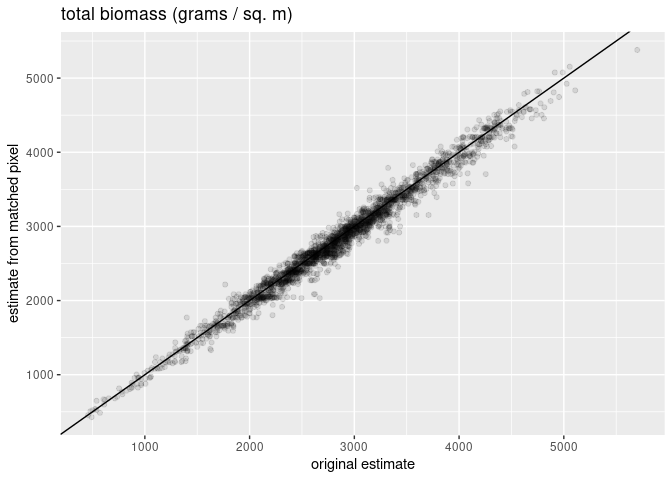
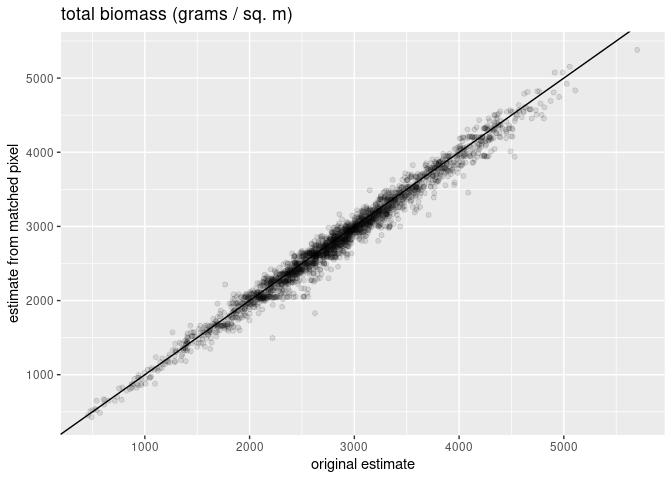
try fixing scrollable code chunks with css

diff --git a/README.md b/README.md
@@ -2,6 +2,15 @@
 <!-- README.md is generated from README.Rmd. Please edit that file -->
 
 <style type="text/css">
+pre {
+  max-height: 300px;
+  overflow-y: auto;
+}
+
+pre[class] {
+  max-height: 200px;
+}
+
 .scroll-200 {
   max-height: 200px;
   overflow-y: auto;
@@ -329,14 +338,14 @@ and some diagnostic tables (`backcasted$comp_stats`,
 species (`common`) and diameter per pixel.
 
 ``` scroll-200
-#> Rows: 595,709
+#> Rows: 598,293
 #> Columns: 6
-#> $ pix_ctr_wkt <chr> "POINT(-1768035 -455625)", "POINT(-1768035 -455625)", "PO…
-#> $ map_code    <chr> "10_11_1889", "10_11_1889", "10_11_1889", "10_11_1889", "…
+#> $ pix_ctr_wkt <chr> "POINT(-1768035 -455625)", "POINT(-1771275 -455355)", "PO…
+#> $ map_code    <chr> "10_11_1889", "10_11_2003", "10_11_1889", "10_11_2003", "…
 #> $ pix_area_ha <dbl> 0.81, 0.81, 0.81, 0.81, 0.81, 0.81, 0.81, 0.81, 0.81, 0.8…
-#> $ common      <chr> "California black oak", "ponderosa pine", "California bla…
-#> $ diameter    <int> 2, 5, 5, 6, 7, 8, 9, 10, 11, 12, 13, 14, 15, 16, 24, 26, …
-#> $ nTrees      <dbl> 57.891, 5.572, 14.138, 10.092, 11.434, 1.531, 13.562, 10.…
+#> $ common      <chr> "California black oak", "California black oak", "ponderos…
+#> $ diameter    <int> 2, 2, 5, 5, 5, 5, 6, 6, 7, 7, 8, 8, 9, 9, 10, 10, 11, 11,…
+#> $ nTrees      <dbl> 57.891, 57.891, 5.572, 5.572, 14.138, 14.138, 10.092, 10.…
 ```
 
 ### Diagnostics
@@ -351,9 +360,9 @@ share of biomass for each pixel.
 
 <img src="man/figures/README-total_biomass_plot-1.png" width="80%" />
 
-|            attribute             | original mean | matched mean | RMSE  | RMSE % |
-| :------------------------------: | :-----------: | :----------: | :---: | :----: |
-| aboveground\_biomass\_g\_per\_m2 |     2852      |     2817     | 115.8 |   4    |
+|            attribute             | original mean | matched mean | RMSE | RMSE % |
+| :------------------------------: | :-----------: | :----------: | :--: | :----: |
+| aboveground\_biomass\_g\_per\_m2 |     2852      |     2811     | 120  |   4    |
 
 #### Biomass by species
 
@@ -361,39 +370,39 @@ share of biomass for each pixel.
 
 |     species     | original mean | matched mean |  RMSE  | RMSE % |
 | :-------------: | :-----------: | :----------: | :----: | :----: |
-|    PseuMenz     |     1138      |     1154     | 97.36  |   9    |
-|    AbieConc     |      524      |    516.7     |  98.6  |   19   |
-|    CaloDecu     |     453.4     |    418.9     |  117   |   26   |
-|    PinuPond     |     362.5     |    369.3     | 91.74  |   25   |
-|    PinuLamb     |     152.8     |    156.8     | 73.84  |   48   |
-|    QuerKell     |     98.18     |    92.55     | 68.59  |   70   |
-|    QuerChry     |     39.03     |    31.67     | 56.45  |  145   |
-|    AcerMacr     |     17.25     |    14.96     | 42.41  |  246   |
-|    QuerWisl     |     8.485     |    7.701     |  27.4  |  323   |
-|    AbieMagn     |     7.563     |     5.31     | 28.57  |  378   |
-|    ArbuMenz     |     7.465     |    6.453     | 27.84  |  373   |
-|    PinuJeff     |     6.857     |    6.646     | 27.45  |  400   |
-|    LithDens     |     6.416     |    7.764     | 29.23  |  456   |
-|    AlnuRhom     |     5.756     |    4.851     | 22.65  |  394   |
-|  NOFX\_R\_SEED  |     5.039     |    4.617     | 7.912  |  157   |
-|    TsugMert     |     4.166     |    4.293     | 24.72  |  593   |
-|    PinuSabi     |     3.656     |    3.319     |  20.1  |  550   |
-|    CornNutt     |     2.504     |    2.248     | 6.248  |  249   |
-|   FX\_R\_SEED   |     1.543     |    1.571     |  3.43  |  222   |
-|    PinuMono     |     1.493     |    0.548     | 18.49  |  1239  |
-|    QuerDoug     |     1.346     |    1.065     | 9.993  |  743   |
-|    JuniOcci     |     1.308     |     1.33     | 12.26  |  937   |
-|    AescCali     |     1.019     |    0.8943    | 6.593  |  647   |
-|    PinuMont     |    0.8548     |    0.6364    | 6.336  |  741   |
-|    PopuTrem     |    0.6074     |    0.8791    | 8.343  |  1374  |
-| NOFX\_NOR\_SEED |    0.3187     |    0.3951    | 2.524  |  792   |
-|    PinuCont     |    0.2669     |    0.206     | 2.204  |  826   |
-|    QuerGarr     |    0.09528    |    0.1569    | 2.026  |  2127  |
-|    TaxuBrev     |    0.07983    |    0.1329    | 1.392  |  1744  |
-|    TorrCali     |    0.06021    |   0.04675    | 0.5542 |  920   |
-|    UmbeCali     |    0.0512     |   0.05752    | 0.9691 |  1893  |
-|    PinuAlbi     |    0.02423    |   0.006637   | 0.6391 |  2637  |
-|    PinuAtte     |    0.00294    |   0.03735    | 0.7897 | 26856  |
+|    PseuMenz     |     1138      |     1153     | 95.37  |   8    |
+|    AbieConc     |      524      |    514.4     | 100.6  |   19   |
+|    CaloDecu     |     453.4     |     419      | 117.9  |   26   |
+|    PinuPond     |     362.5     |    367.6     | 91.82  |   25   |
+|    PinuLamb     |     152.8     |    154.5     | 73.54  |   48   |
+|    QuerKell     |     98.18     |    93.39     | 70.61  |   72   |
+|    QuerChry     |     39.03     |    31.64     | 56.83  |  146   |
+|    AcerMacr     |     17.25     |     13.6     | 41.56  |  241   |
+|    QuerWisl     |     8.485     |    7.843     | 28.33  |  334   |
+|    AbieMagn     |     7.563     |    5.438     | 28.32  |  374   |
+|    ArbuMenz     |     7.465     |    7.746     | 28.92  |  387   |
+|    PinuJeff     |     6.857     |     6.82     | 27.46  |  400   |
+|    LithDens     |     6.416     |    7.656     | 29.02  |  452   |
+|    AlnuRhom     |     5.756     |    5.354     | 22.98  |  399   |
+|  NOFX\_R\_SEED  |     5.039     |    4.815     | 7.699  |  153   |
+|    TsugMert     |     4.166     |    4.925     |  25.1  |  602   |
+|    PinuSabi     |     3.656     |    3.244     | 19.92  |  545   |
+|    CornNutt     |     2.504     |    2.357     | 6.533  |  261   |
+|   FX\_R\_SEED   |     1.543     |    1.645     | 3.567  |  231   |
+|    PinuMono     |     1.493     |    0.4335    | 18.39  |  1232  |
+|    QuerDoug     |     1.346     |    0.8823    | 9.471  |  704   |
+|    JuniOcci     |     1.308     |    1.329     | 12.38  |  947   |
+|    AescCali     |     1.019     |    0.7262    | 6.635  |  651   |
+|    PinuMont     |    0.8548     |    0.6859    | 6.284  |  735   |
+|    PopuTrem     |    0.6074     |    0.9579    | 8.677  |  1428  |
+| NOFX\_NOR\_SEED |    0.3187     |    0.4403    | 2.481  |  779   |
+|    PinuCont     |    0.2669     |    0.2315    | 2.286  |  856   |
+|    QuerGarr     |    0.09528    |    0.2051    | 2.159  |  2266  |
+|    TaxuBrev     |    0.07983    |    0.1087    | 1.342  |  1682  |
+|    TorrCali     |    0.06021    |   0.04974    | 0.5572 |  925   |
+|    UmbeCali     |    0.0512     |   0.05141    | 0.969  |  1893  |
+|    PinuAlbi     |    0.02423    |   0.004004   | 0.6321 |  2608  |
+|    PinuAtte     |    0.00294    |   0.05325    | 1.063  | 36135  |
 
 #### Biomass by age class
 
@@ -401,42 +410,42 @@ share of biomass for each pixel.
 
 | age class | original mean | matched mean |   RMSE   | RMSE % |
 | :-------: | :-----------: | :----------: | :------: | :----: |
-| \-10 - 0  |   7.16e-05    |   0.00016    | 0.004836 |  6754  |
-|  0 - 10   |   0.006694    |   0.008042   | 0.09241  |  1381  |
-|  10 - 20  |      3.4      |    3.664     |  4.869   |  143   |
-|  20 - 30  |     3.871     |    4.044     |  7.185   |  186   |
-|  30 - 40  |     11.94     |    12.03     |  8.219   |   69   |
-|  40 - 50  |     46.69     |    47.65     |   17.2   |   37   |
-|  50 - 60  |     82.95     |    80.48     |  23.34   |   28   |
-|  60 - 70  |     136.6     |    131.6     |  37.06   |   27   |
-|  70 - 80  |     156.8     |    154.1     |  38.83   |   25   |
-|  80 - 90  |     164.3     |    157.3     |  47.27   |   29   |
-| 90 - 100  |     174.5     |    172.4     |  42.84   |   25   |
-| 100 - 110 |     182.8     |    174.9     |  49.82   |   27   |
-| 110 - 120 |     179.6     |    183.5     |  53.62   |   30   |
-| 120 - 130 |     202.3     |    209.4     |  67.22   |   33   |
-| 130 - 140 |      185      |     179      |  63.72   |   34   |
-| 140 - 150 |     133.7     |    132.6     |  37.09   |   28   |
-| 150 - 160 |     155.3     |    156.1     |  39.52   |   25   |
-| 160 - 170 |     180.2     |    183.8     |   44.5   |   25   |
-| 170 - 180 |     123.3     |    128.7     |  43.53   |   35   |
-| 180 - 190 |     100.6     |     95.1     |  44.06   |   44   |
-| 190 - 200 |     89.26     |    87.78     |  39.36   |   44   |
-| 200 - 210 |     101.4     |    102.6     |  42.35   |   42   |
-| 210 - 220 |     63.84     |    58.27     |  39.02   |   61   |
-| 220 - 230 |     105.1     |    103.6     |  52.29   |   50   |
-| 230 - 240 |     127.2     |    120.7     |  68.66   |   54   |
-| 240 - 250 |     35.08     |    35.88     |  32.97   |   94   |
-| 250 - 260 |     20.04     |    18.92     |  29.95   |  149   |
-| 260 - 270 |     27.75     |    28.08     |  30.37   |  109   |
-| 270 - 280 |     48.4      |    46.84     |  32.14   |   66   |
-| 280 - 290 |    0.2187     |    0.1254    |  3.502   |  1601  |
-| 290 - 300 |     2.635     |    2.055     |  16.08   |  610   |
-| 300 - 310 |     4.736     |    3.587     |  18.03   |  381   |
-| 310 - 320 |    0.6709     |    0.4459    |  6.229   |  929   |
-| 320 - 330 |     1.141     |    0.9559    |  12.31   |  1079  |
-| 340 - 350 |   0.009248    |   0.005255   | 0.08552  |  925   |
-| 350 - 360 |    0.1074     |   0.04024    |  2.728   |  2541  |
-| 360 - 370 |    0.2148     |    0.1824    |  7.476   |  3480  |
+| \-10 - 0  |   7.16e-05    |   0.000168   | 0.005026 |  7019  |
+|  0 - 10   |   0.006694    |   0.00818    | 0.09032  |  1349  |
+|  10 - 20  |      3.4      |    3.761     |  4.846   |  143   |
+|  20 - 30  |     3.871     |    4.109     |  7.132   |  184   |
+|  30 - 40  |     11.94     |    11.93     |  8.239   |   69   |
+|  40 - 50  |     46.69     |    47.28     |  17.22   |   37   |
+|  50 - 60  |     82.95     |    80.48     |  23.75   |   29   |
+|  60 - 70  |     136.6     |    130.8     |  37.66   |   28   |
+|  70 - 80  |     156.8     |    153.2     |  38.66   |   25   |
+|  80 - 90  |     164.3     |    156.2     |  48.99   |   30   |
+| 90 - 100  |     174.5     |    173.1     |  42.67   |   24   |
+| 100 - 110 |     182.8     |    174.5     |  50.28   |   27   |
+| 110 - 120 |     179.6     |    182.3     |  53.53   |   30   |
+| 120 - 130 |     202.3     |    210.2     |  68.03   |   34   |
+| 130 - 140 |      185      |    179.6     |  64.26   |   35   |
+| 140 - 150 |     133.7     |    133.2     |  36.65   |   27   |
+| 150 - 160 |     155.3     |     157      |  39.46   |   25   |
+| 160 - 170 |     180.2     |    183.4     |  44.48   |   25   |
+| 170 - 180 |     123.3     |    128.9     |  43.19   |   35   |
+| 180 - 190 |     100.6     |    95.67     |  44.79   |   45   |
+| 190 - 200 |     89.26     |    87.52     |  38.98   |   44   |
+| 200 - 210 |     101.4     |    102.6     |  42.32   |   42   |
+| 210 - 220 |     63.84     |    57.76     |  39.85   |   62   |
+| 220 - 230 |     105.1     |     103      |  52.67   |   50   |
+| 230 - 240 |     127.2     |    119.8     |  70.05   |   55   |
+| 240 - 250 |     35.08     |    35.76     |  33.44   |   95   |
+| 250 - 260 |     20.04     |    18.42     |  29.86   |  149   |
+| 260 - 270 |     27.75     |    27.38     |   30.3   |  109   |
+| 270 - 280 |     48.4      |    46.03     |  32.92   |   68   |
+| 280 - 290 |    0.2187     |    0.1781    |  3.868   |  1768  |
+| 290 - 300 |     2.635     |    1.932     |  15.71   |  596   |
+| 300 - 310 |     4.736     |    3.517     |  18.76   |  396   |
+| 310 - 320 |    0.6709     |    0.3898    |  6.058   |  903   |
+| 320 - 330 |     1.141     |    0.8694    |  12.04   |  1056  |
+| 340 - 350 |   0.009248    |   0.004498   | 0.08528  |  922   |
+| 350 - 360 |    0.1074     |   0.03951    |  2.728   |  2541  |
+| 360 - 370 |    0.2148     |    0.1459    |   7.25   |  3375  |
 | 380 - 390 |   0.0003472   |  0.0005916   | 0.02575  |  7415  |
-| 390 - 400 |   0.0003472   |      0       | 0.01228  |  3536  |
+| 390 - 400 |   0.0003472   |  0.0005208   | 0.01941  |  5590  |
